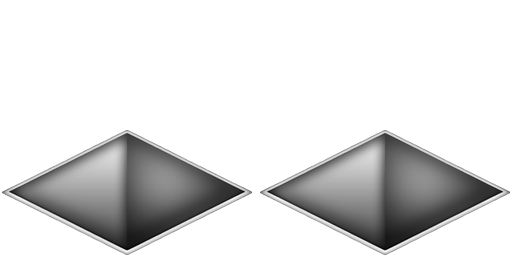
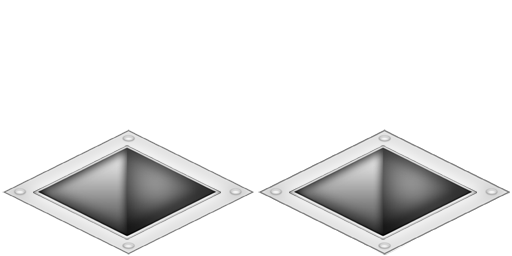
removed all climb over blocks from the map files changed the description of climb to no longer say "and climb over stuff" adjusted the gap tile so that it is easier to see what it is

Changed region(s): [[0.0, 0.5, 1.0, 1.0]]

diff --git a/seeautz/source/glutFramework/glutFramework/oglGameVars.cpp b/seeautz/source/glutFramework/glutFramework/oglGameVars.cpp
@@ -80,7 +80,7 @@ oglGameVars::oglGameVars()
 	tempArt->loadImage("maps\\tutorialMap4.png", 300, 150);
 	levelArt.push_back(tempArt);
 
-	tempLevel = new levelData("Instruction Tutorial 5", "Climbing and Jumping", "maps\\tutorialMap5.txt");
+	tempLevel = new levelData("Instruction Tutorial 5", "Jumping", "maps\\tutorialMap5.txt");
 	levelList.push_back(tempLevel);
 	tempArt = new oglTexture2D;
 	tempArt->loadImage("maps\\tutorialMap5.png", 300, 150);
@@ -524,7 +524,7 @@ void oglGameVars::loadAllLogicBlocks()
 	tmpBlock->addInstruction(PUNCH);
 	allLogicBlocks.push_back(tmpBlock);
 
-	tmpBlock = new logicBlock("instructions/climb.png", 130, 130, "Climb                Use this instruction to climb up to a     higher level, or overcertain obstacles.", 4, CLIMB);
+	tmpBlock = new logicBlock("instructions/climb.png", 130, 130, "Climb                Use this instruction to climb up to a     higher level.", 4, CLIMB);
 	tmpBlock->addInstruction(CLIMB);
 	allLogicBlocks.push_back(tmpBlock);
 

diff --git a/seeautz/source/glutFramework/glutFramework/gameBoard.cpp b/seeautz/source/glutFramework/glutFramework/gameBoard.cpp
@@ -463,6 +463,12 @@ bool gameBoard::LoadGameMapFromFile(std::string filename)
 		for(int x = 0; x < Width; x++)
 		{
 			mapfile >> temptile;
+			if((temptile == THalfBottomL) || (temptile == THalfBottomR))
+			{
+				temptile = TGap;
+				// do NOT comment out this cout line, it is for verification purposes when loading a map
+				std::cout << filename.c_str() << "is referencing a THalfBottomL or THalfBottomR, I have converted it to a TGap" << endl;
+			}
 			this->setTileType(x, y, (tileTypeEnum)temptile);
 			// if its a start spot, add the robot to the object list
 			if(temptile == TStart)
@@ -2412,6 +2418,7 @@ void gameBoard::rotateMapRight()
 
 	tempX = Height - currentY;
 	tempY = currentX;
+
 	currentX = tempX;
 	currentY = tempY;
 
@@ -2502,6 +2509,7 @@ void gameBoard::rotateMapLeft()
 
 	tempX = currentY;
 	tempY = Width - currentX;
+
 	currentX = tempX;
 	currentY = tempY;
 
